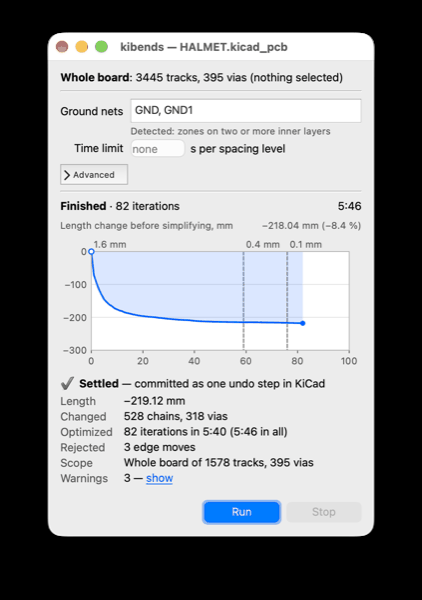
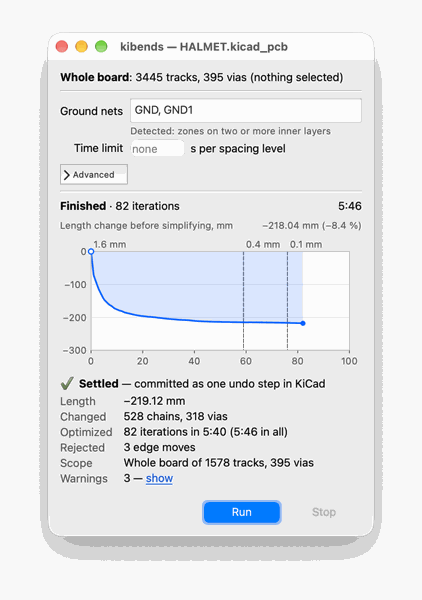
docs: say why, show the pair side by side
The README opens with the before and after pictures next to each other,
says what smoothing is for, that the board's clearances hold, that the
result stays editable and that the topology does not change. The panel
screenshot keeps its transparent shadow.

Claude-Session: https://claude.ai/code/session_017bmLkUcigikgBMuKVCo1fj

diff --git a/README.md b/README.md
@@ -4,10 +4,32 @@ kibends smooths the tracks of a KiCad board. It replaces each selected
 route with a short, smooth path that keeps its clearance to other copper,
 and it does so in the running PCB editor as one undo step.
 
-![HALMET before smoothing](docs/images/halmet-before.png)
-![HALMET after smoothing](docs/images/halmet-after.png)
+<table>
+  <tr><th>Before</th><th>After</th></tr>
+  <tr>
+    <td><img src="docs/images/halmet-before.png" alt="HALMET before smoothing"></td>
+    <td><img src="docs/images/halmet-after.png" alt="HALMET after smoothing"></td>
+  </tr>
+</table>
 
-Status: early development.
+## Why
+
+Mostly for the look: routes drawn as straight runs and 45° corners become
+smooth curves. The more even spacing between tracks may also help signal
+integrity a little.
+
+The result follows the board's clearances: netclass clearances and the
+edge, hole and hole-to-hole clearances from the project. Custom DRC rules
+are not read (see [Limits](#limits)).
+
+The board stays fully editable. The result is ordinary straight track
+segments, so you can push, drag and reroute it with KiCad's router like
+any other track, and run kibends again afterwards.
+
+The board's topology does not change in general: tracks keep their
+connections and stay on the same side of the copper around them. In rare
+cases a track can jump over a lone via to its other side, where that
+gives a shorter path.
 
 ## Install
 
